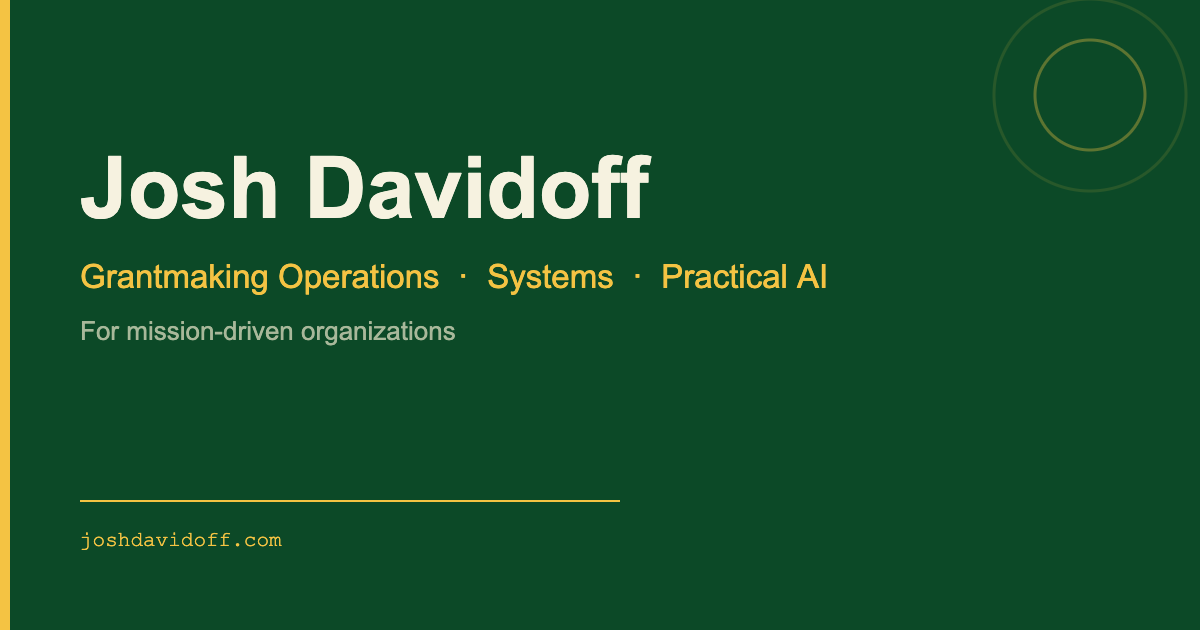
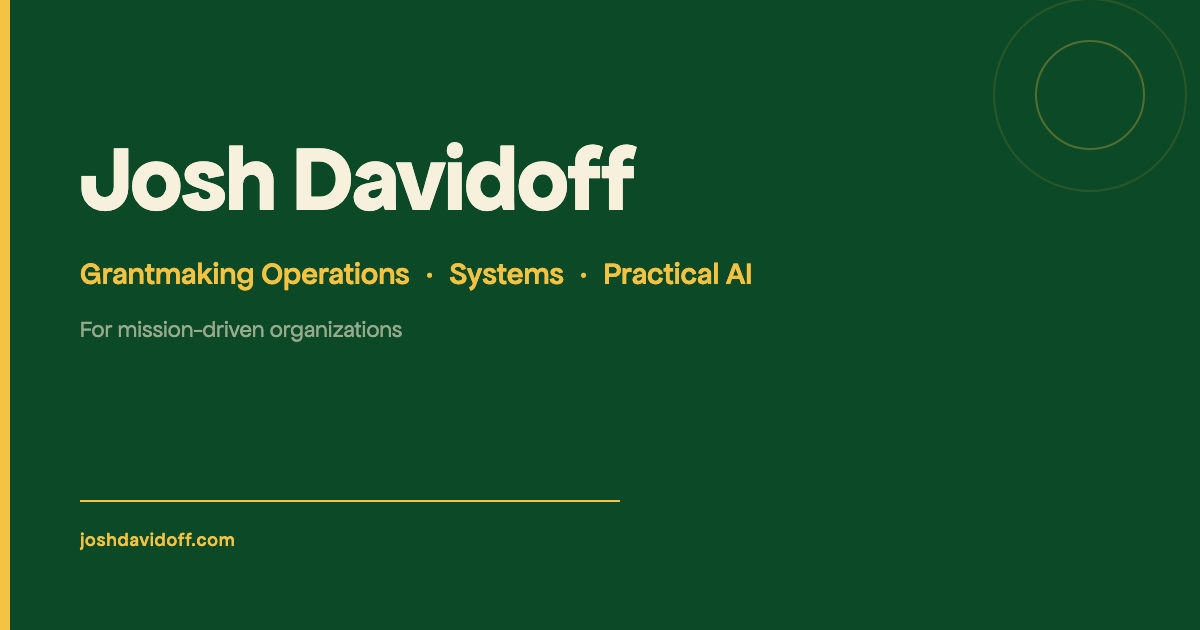
style(site): rebuild the link-preview card in Apfel Grotezk
Adds an HTML source for assets/og-card.png so it can be regenerated,
documents the render command, and excludes scripts/ from the Pages
artifact so the source stays off the live site.

Review: skipped, image, HTML template, and one-line deploy exclude

diff --git a/scripts/og-card/og-card.html b/scripts/og-card/og-card.html
@@ -1,0 +1,36 @@
+<!DOCTYPE html>
+<html lang="en">
+<head>
+<meta charset="UTF-8" />
+<title>og card source</title>
+<!-- Source for assets/og-card.png (1200x630). Render command: AGENTS.md, "Link-preview card". -->
+<style>
+  @font-face { font-family: "Apfel Grotezk"; src: url("/assets/fonts/ApfelGrotezk-Regular.woff2") format("woff2"); font-weight: 400; }
+  @font-face { font-family: "Apfel Grotezk"; src: url("/assets/fonts/ApfelGrotezk-Mittel.woff2") format("woff2"); font-weight: 500; }
+  @font-face { font-family: "Apfel Grotezk"; src: url("/assets/fonts/ApfelGrotezk-Fett.woff2") format("woff2"); font-weight: 700; }
+  :root { --bg: #0c4927; --mustard: #f4c343; --cream: #f6f0dc; --sage: #96ab8d; }
+  html, body { margin: 0; width: 1200px; height: 630px; overflow: hidden; background: var(--bg); }
+  body { position: relative; font-family: "Apfel Grotezk", sans-serif; }
+  .bar { position: absolute; left: 0; top: 0; bottom: 0; width: 10px; background: var(--mustard); }
+  .ring { position: absolute; border-radius: 50%; border: 2px solid var(--mustard); box-sizing: border-box; }
+  .ring.inner { left: 1035px; top: 40px; width: 110px; height: 110px; opacity: 0.3; }
+  .ring.outer { left: 993px; top: -2px; width: 194px; height: 194px; opacity: 0.12; }
+  .name { position: absolute; left: 78px; top: 132px; margin: 0; color: var(--cream); font-size: 94px; font-weight: 700; letter-spacing: -0.02em; line-height: 1; }
+  .tag { position: absolute; left: 80px; top: 256px; margin: 0; color: var(--mustard); font-size: 31px; font-weight: 500; line-height: 1.2; }
+  .tag .sep { padding: 0 14px; }
+  .sub { position: absolute; left: 80px; top: 316px; margin: 0; color: var(--sage); font-size: 23px; font-weight: 400; line-height: 1.2; }
+  .rule { position: absolute; left: 80px; top: 500px; width: 540px; height: 2px; background: var(--mustard); }
+  .url { position: absolute; left: 80px; top: 528px; margin: 0; color: var(--mustard); font-size: 19px; font-weight: 500; letter-spacing: 0.04em; }
+</style>
+</head>
+<body>
+  <div class="bar"></div>
+  <div class="ring outer"></div>
+  <div class="ring inner"></div>
+  <p class="name">Josh Davidoff</p>
+  <p class="tag">Grantmaking Operations<span class="sep">·</span>Systems<span class="sep">·</span>Practical AI</p>
+  <p class="sub">For mission-driven organizations</p>
+  <div class="rule"></div>
+  <p class="url">joshdavidoff.com</p>
+</body>
+</html>

diff --git a/AGENTS.md b/AGENTS.md
@@ -101,6 +101,19 @@ sticky nav's "Work" link is caught partway through its `.18s` color transition, 
 few hundred pixels in the top 30 rows near x 880-925 differ between any two captures.
 Confirm noise by recapturing the same side; any other diff, on any page, is real.
 
+## Link-preview card
+
+`assets/og-card.png` (1200x630, the `og:image` on every page) is rendered from
+`scripts/og-card/og-card.html`, which uses the self-hosted Apfel Grotezk files.
+`scripts/` is excluded from the Pages artifact. To regenerate, serve the repo
+root on port 8002 and run:
+
+```bash
+CH=$(ls ~/Library/Caches/ms-playwright/chromium_headless_shell-*/chrome-headless-shell-mac-arm64/chrome-headless-shell | tail -1); "$CH" --headless --no-first-run --hide-scrollbars --disable-gpu --force-device-scale-factor=1 --virtual-time-budget=3000 --user-data-dir="$(mktemp -d)" --window-size=1200,630 --screenshot=assets/og-card.png http://127.0.0.1:8002/scripts/og-card/og-card.html
+```
+
+LinkedIn caches previews for about a week; its Post Inspector refreshes one.
+
 ## Updated dates
 
 Every project card and case page carries an "Updated" date. It is the date the
